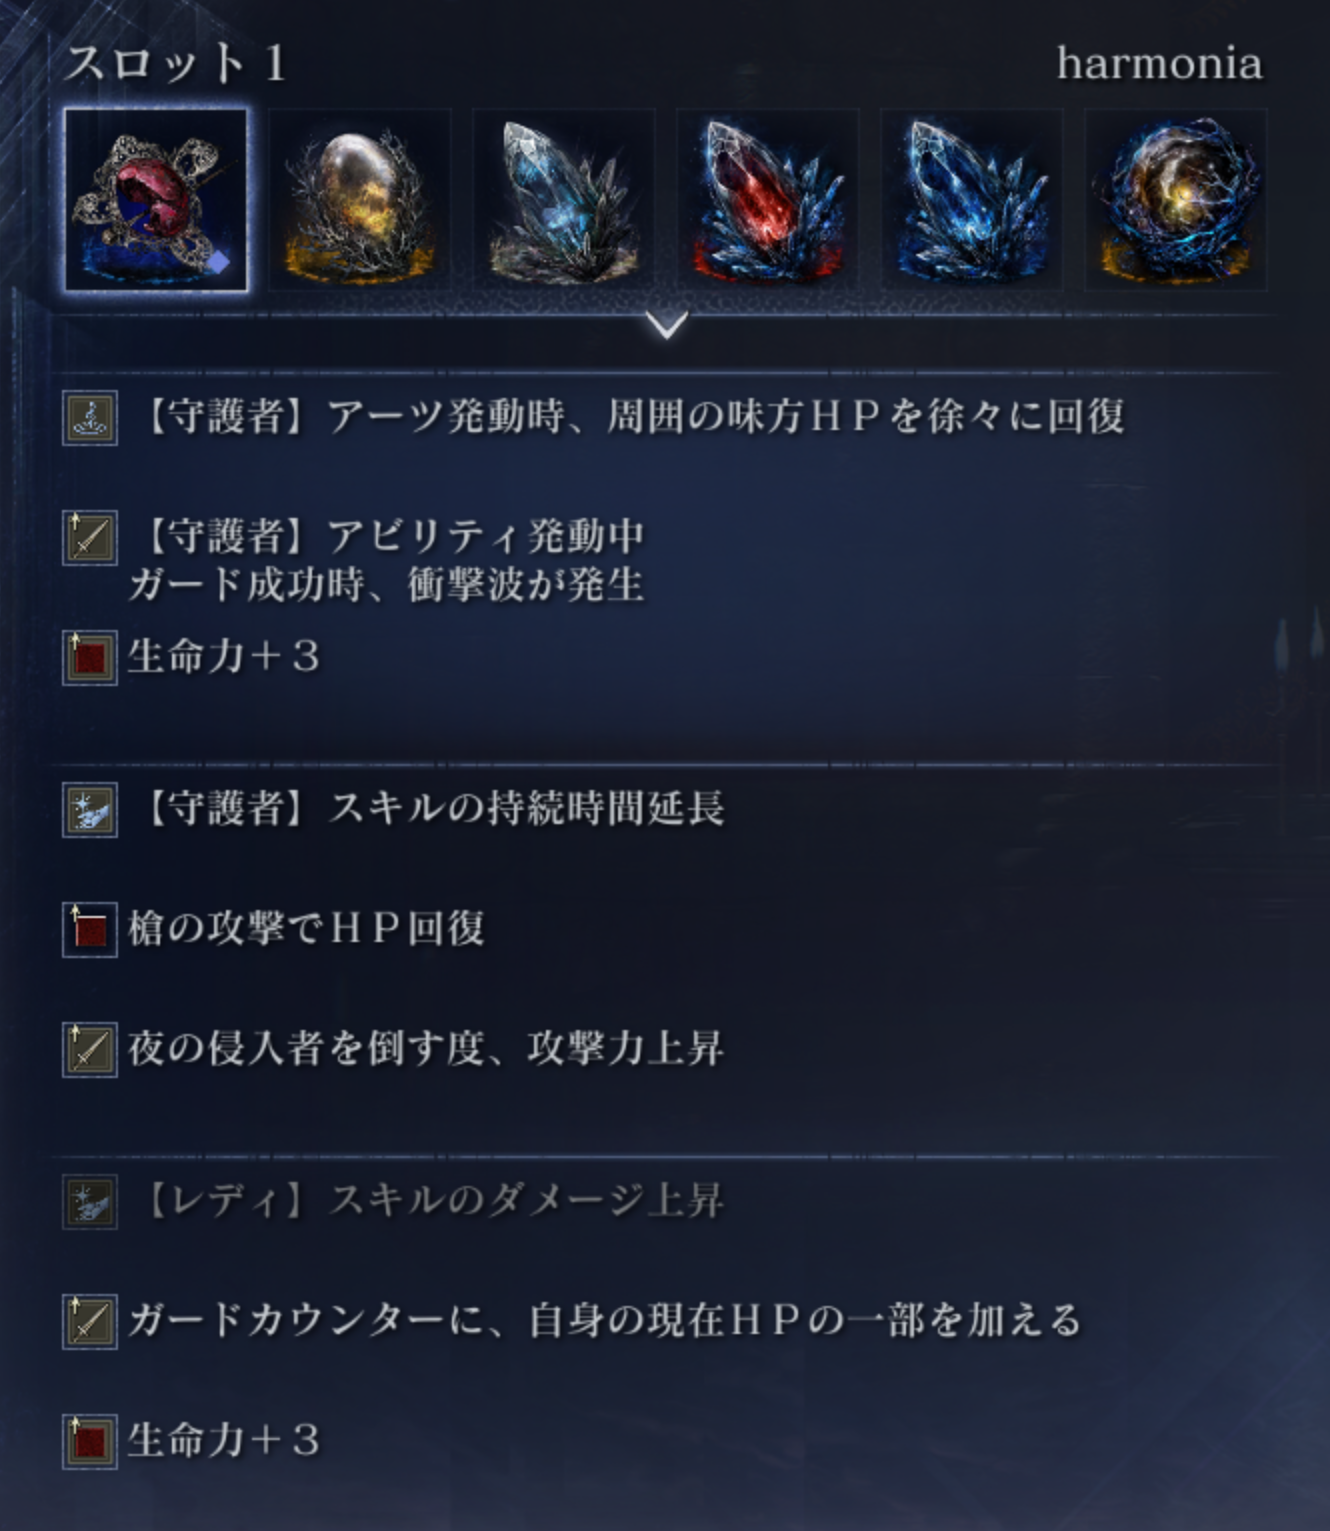
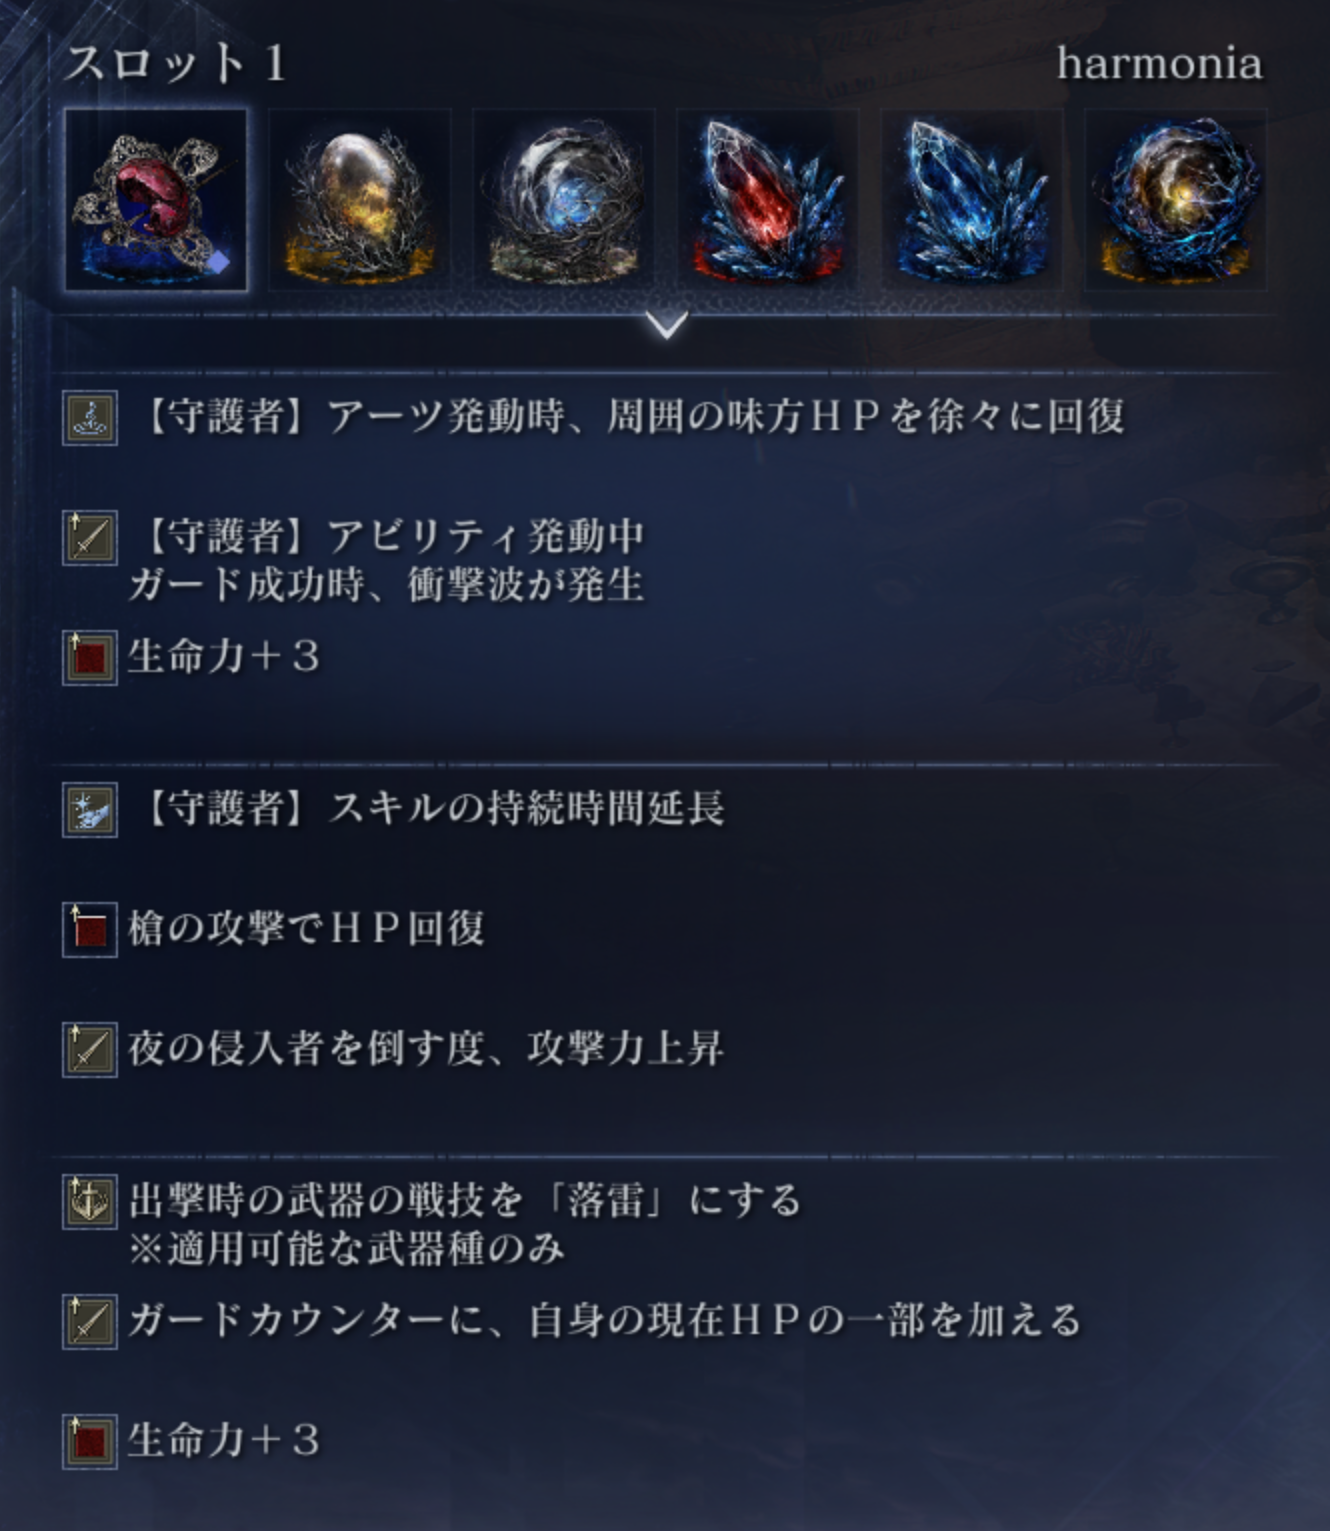
守護者グノスターを2パターン化(HPを画像ブロック下に表示)、ハルモニア1枚目差し替え、ボス不明を追加、ラベル余白調整

Changed region(s): [[0.0308, 0.7675, 0.6165, 0.8289], [0.0308, 0.0614, 0.2158, 0.2149], [0.3699, 0.0614, 0.4932, 0.1842]]

diff --git a/app.js b/app.js
@@ -338,7 +338,22 @@ async function main() {
       return row;
     }
 
+    function buildHpBadge(value) {
+      const hpBadge = document.createElement("span");
+      hpBadge.className = "hp-badge";
+      const statLabel = document.createElement("span");
+      statLabel.className = "stat-label stat-label-hp";
+      statLabel.textContent = "Lv15 HP";
+      const statValue = document.createElement("span");
+      statValue.className = "stat-value stat-value-hp";
+      statValue.textContent = value ?? "未登録";
+      hpBadge.appendChild(statLabel);
+      hpBadge.appendChild(statValue);
+      return hpBadge;
+    }
+
     const bossLabel = bossNames.join("・");
+    const hasGroupHp = (entry.variantGroups ?? []).some((g) => g.hpLv15 != null);
 
     if (entry.variantGroups) {
       for (const group of entry.variantGroups) {
@@ -353,6 +368,12 @@ async function main() {
         block.appendChild(label);
 
         block.appendChild(buildRelicRow(group.images ?? [], `${bossLabel}(${group.label})`));
+        if (group.hpLv15 != null) {
+          const hpRow = document.createElement("div");
+          hpRow.className = "relic-block-hp";
+          hpRow.appendChild(buildHpBadge(group.hpLv15));
+          block.appendChild(hpRow);
+        }
         card.appendChild(block);
       }
     } else {
@@ -368,17 +389,7 @@ async function main() {
 
     const stat = document.createElement("div");
     stat.className = "stat-row";
-    const hpBadge = document.createElement("span");
-    hpBadge.className = "hp-badge";
-    const statLabel = document.createElement("span");
-    statLabel.className = "stat-label stat-label-hp";
-    statLabel.textContent = "Lv15 HP";
-    const statValue = document.createElement("span");
-    statValue.className = "stat-value stat-value-hp";
-    statValue.textContent = entry.hpLv15 ?? "未登録";
-    hpBadge.appendChild(statLabel);
-    hpBadge.appendChild(statValue);
-    stat.appendChild(hpBadge);
+    if (!hasGroupHp) stat.appendChild(buildHpBadge(entry.hpLv15));
 
     if (entry.createdAt) {
       const dateLabel = document.createElement("span");

diff --git a/style.css b/style.css
@@ -261,12 +261,16 @@ body {
 }
 
 .relic-block + .relic-block {
+  margin-top: 1rem;
+}
+
+.relic-block-hp {
   margin-top: 0.4rem;
 }
 
 .relic-block-label {
   position: absolute;
-  top: -0.35rem;
+  top: -0.15rem;
   left: 0.7rem;
   font-size: 0.7rem;
   font-weight: bold;
